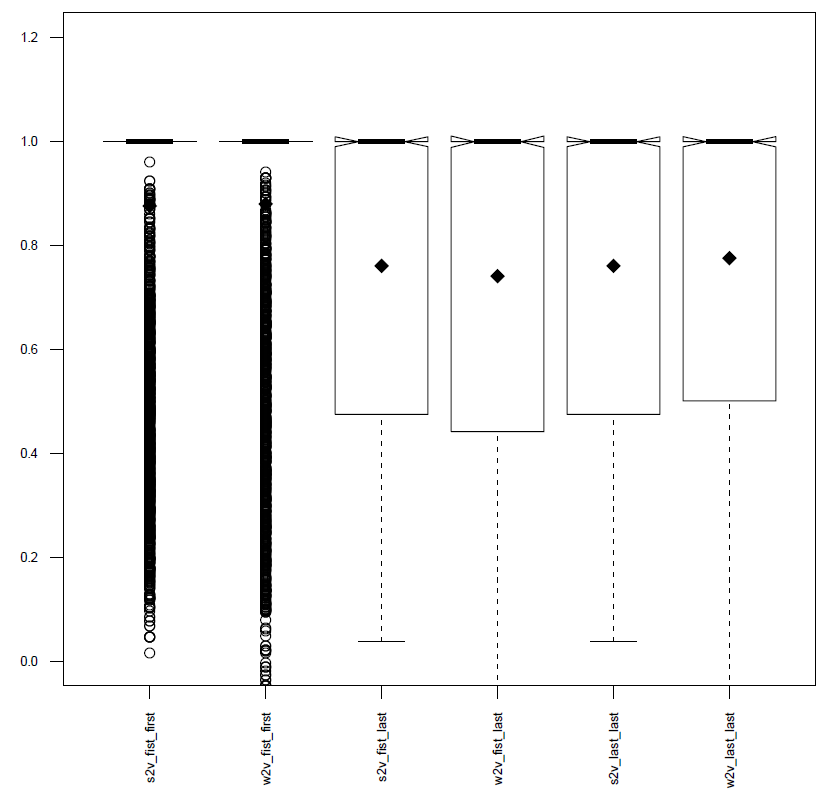
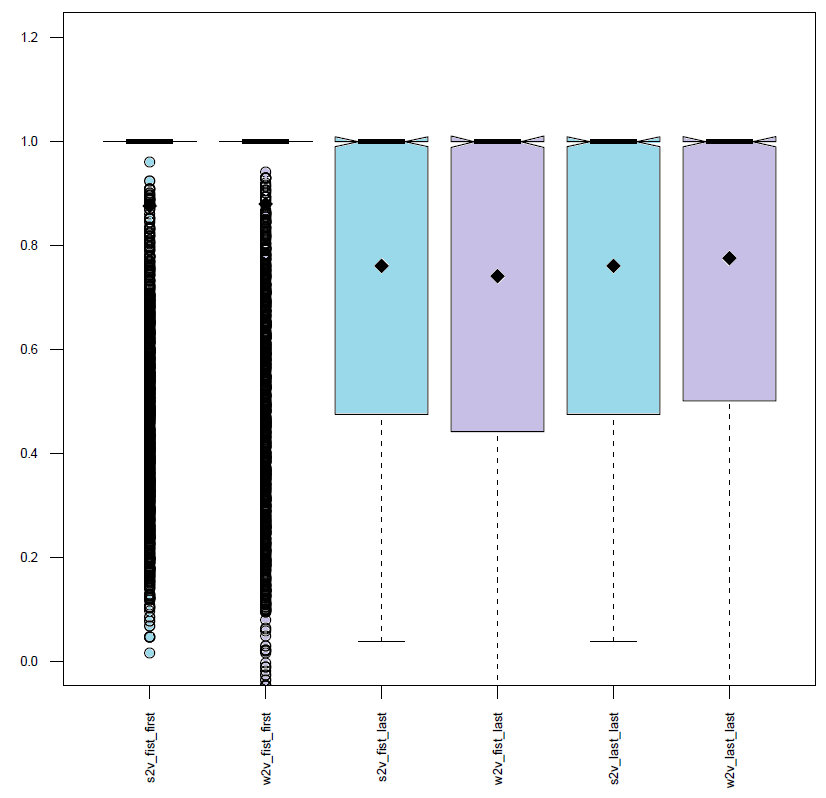
final latex files

Changed region(s): [[0.5448, 0.1805, 0.9383, 0.5414], [0.3935, 0.1805, 0.5145, 0.5414]]

diff --git a/LaTeX/chapters/5conclusion.tex b/LaTeX/chapters/5conclusion.tex
@@ -2,4 +2,4 @@ The task of extracting context and meaning from language is a difficult task and
 
 The most noteworthy advantage of this process is the reduction of confusion when investigating the use of a word that may have multiple parts of speech. The ability to specify more meaning for a specific word not only improves the accuracy by removing unwanted word embeddings not relevant to the word used in this context, it also separates clusters that would otherwise be combined had they not be separated by part of speech. Within section 4.3 Collisions three examples of this scenario were presented with Word2Vec providing a combination of words related to both the noun and verb form of the word. When compared to tagging the word; Sense2Vec provided greater context and allowed for clear separation between both forms of the word in all three cases. It was possible to make a clear distinction between the two word embedding systems using the WordNet project and Bloom's Taxonomy as baselines.
 
-This process does not come without some caveats however, with the separation of word embeddings based on their part of speech the resulting vocabulary size is larger despite technically containing the same number of unique words. This also introduces a loss in context as the surrounding words will now be linked to the specific form of the word in that context, based on whether it used as a noun, verb adjective etc. All this requires a larger corpus of text with greater a diversity of words used in different forms, compare this to Word2Vec which can obtain a reasonable level of context based on a smaller corpus. Of course Sense2Vec also requires the corpus to be part of speech tagged before the training process begins a lengthy process and the most complex problem to solve. However once this is complete the training process is significantly quicker and the model produced is over four times smaller than that of Word2Vec, this is helped by the use of the GloVe library used to produce the model. Appendix G contains further a comparison on training times and changes to the training process for future work.
+This process does not come without some caveats however, with the separation of word embeddings based on their part of speech the resulting vocabulary size is larger despite technically containing the same number of unique words. This also introduces a loss in context as the surrounding words will now be linked to the specific form of the word in that context, based on whether it used as a noun, verb adjective etc. All this requires a larger corpus of text with greater a diversity of words used in different forms, compare this to Word2Vec which can obtain a reasonable level of context based on a smaller corpus. Of course Sense2Vec also requires the corpus to be part of speech tagged before the training process begins, a lengthy process and the most complex problem to solve. However once this is complete the training process is significantly quicker and the model produced is over four times smaller than that of Word2Vec, this is helped by the use of the GloVe library used to produce the model. Appendix G contains further a comparison on training times and changes to the training process for future work.

diff --git a/LaTeX/chapters/2background.tex b/LaTeX/chapters/2background.tex
@@ -10,7 +10,7 @@ The current de facto standard for representing words in vector space is Word2vec
 \end{enumerate}
 
 \noindent
-Word2vec can be trained in two ways Continuous Bag-Of-Words (CBOW) or continuous Skip-gram (SG). CBOW will attempt to guess the output; a single word from surrounding words and generally is faster to train. While SG will attempt to guess context words from a single word and tends to work better when only a smaller corpus is available. This choice must be made at the begining of training and generally two models are created one for each method. \cite{Mikolov}
+Word2vec can be trained in two ways Continuous Bag-Of-Words (CBOW) or continuous Skip-gram (SG). CBOW will attempt to guess the output; a single word from surrounding words and generally is faster to train. While SG will attempt to guess context words from a single word and tends to work better when only a smaller corpus is available. This choice must be made at the begining of training and generally two models are created one for each method. \cite{Mikolov} For more examples and distinctions between the two see Appendix A.
 
 Word2vec has many strong use cases with a focus in information retrieval and knowledge discovery. One such example is where Word2vec was used to identify new chemical compounds based on specific properties. In this paper the training corpus was approximately 3.3 million abstracts from 1000 different journals. By looking at relations between different compounds using analogies learned during the training process. In this case Word2vec was integral in the training process, chemical formulae were included in normalised form and trained using skip-gram. The end result was the ability to enter a normalised formulae with the SG model returning a list of context words some of which being a property of the supplied compound such as thin, magnetic etc. \cite{Tshitoyan}
 
@@ -19,7 +19,7 @@ One of the strengths of Word2Vec is the ability to subtract two vectors and add 
 
 \begin{figure}[h]
     \centering
-    \includegraphics[]{images/learned_relationships}
+    \includegraphics[width=\textwidth]{images/learned_relationships}
     \caption{Word pair relationships}
     \label{fig:table_relations}
 \end{figure}
@@ -34,7 +34,7 @@ In figure ~\ref{fig:table_relations} the subtraction vectors appear in the left 
  
  \begin{figure}[h]
     \centering
-    \includegraphics[width=.8\textwidth]{images/cosine_sim.png}
+    \includegraphics[width=.55\textwidth]{images/cosine_sim.png}
     \caption{Cosine similarity use case}
     \label{fig:cosine_vectors}
 \end{figure}
@@ -52,7 +52,7 @@ Grouping words based around a specific category is often a difficult task, with 
 
 \begin{figure}[H]
 \centering
-  \includegraphics[width=\textwidth]{images/bloom.jpg}
+  \includegraphics[width=.9\textwidth]{images/bloom.jpg}
   \caption{Bloom's Taxonomy}
   \label{fig:bloom}
 \end{figure}

diff --git a/LaTeX/chapters/3problem.tex b/LaTeX/chapters/3problem.tex
@@ -4,7 +4,7 @@ The Sense2Vec model is built on a previous method for learning continuous word e
 Incorporating POS to obtain extra meaning becomes extremely useful when looking at word depth, as discussed before due to verbs having a much shallower word depth than nouns the meaning of the verb is difficult to extract when using a Word2Vec model. By introducing senses, it allows for the differentiation of a words usage and in turn produces more relevant vectors when using cosine similarity. A comparison of this extra meaning will be shown later in Chapter 4 Results, but one example would be the word “play” with the Word2Vec model there is no differentiation between the verb “to play” and the noun “a play”. Here the resulting n similar vectors would be a combination of both with the verb possibly getting more priority due to more usage than the noun depending on the corpus. Sense2vec removes this ambiguity by differentiating between the verb and the noun which has the result of removing the variable of how often the word is used in each context.
 
 \section{Systems Used: Stanford NLP}
-The first step in the training process requires POS tagging each word in the corpus this is the most expensive part of the training process for Sense2Vec. Perfect POS tagging would require constructing a parse tree for the corpus, see Appendix B for further discussion on this process.
+The first step in the training process requires POS tagging each word in the corpus this is the most expensive part of the training process for Sense2Vec. Perfect POS tagging would require constructing a parse tree for the corpus, see Appendix B for further example on parse trees.
 
 However, with the recommendation for Sense2Vec to have a corpus of at least 1 billion words constructing a parse tree of this size for the full corpus would be unfeasible. The Sense2Vec project contains scripts parse and tag a supplied corpus which use the Spacy library made by the same team. This library is relatively new and contains extra features not required for POS tagging, Spacy was not designed as research software and would remove the option for flexibility in the future should it be used. For easier integration and future use of the training methods it was decided that the use of the Stanford NLP library would be used for POS tagging. Stanford NLP has a self-contained python library for which can be used for POS tagging and provides an official Python wrapper for accessing the Java Stanford CoreNLP Server, this allows for the construction of smaller batches of parse trees on segments of the corpus.
 

diff --git a/LaTeX/chapters/4results.tex b/LaTeX/chapters/4results.tex
@@ -180,7 +180,7 @@ As discussed to validate the above results some statistical methods were introdu
 \end{figure}
 
 \noindent
-In the figure \ref{fig:wordnet_nouns} the majority of the time the first word in the first sysnet is the word supplied itself, resulting in a similarity score of 1. The median values for both Sense2Vec and Word2Vec tend to be similar in figure \ref{fig:wordnet_nouns} However the outlier tails tend to be longer with Word2Vec.
+In the figure \ref{fig:wordnet_nouns} the majority of the time the first word in the first sysnet is the word supplied itself, resulting in a similarity score of 1. The median values for both Sense2Vec (blue) and Word2Vec (purple) tend to be similar in figure \ref{fig:wordnet_nouns} However the outlier tails tend to be longer with Word2Vec.
 
 \begin{figure}[H]
 \centering
